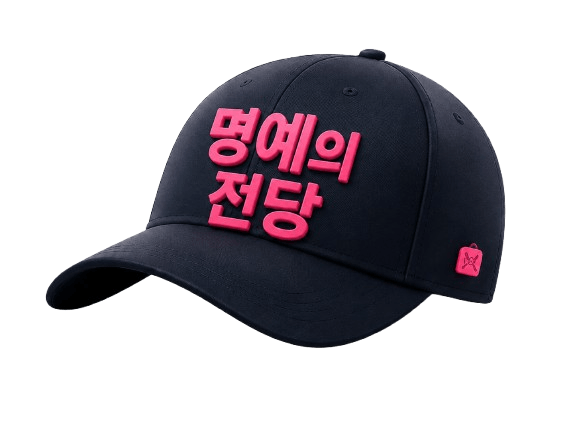
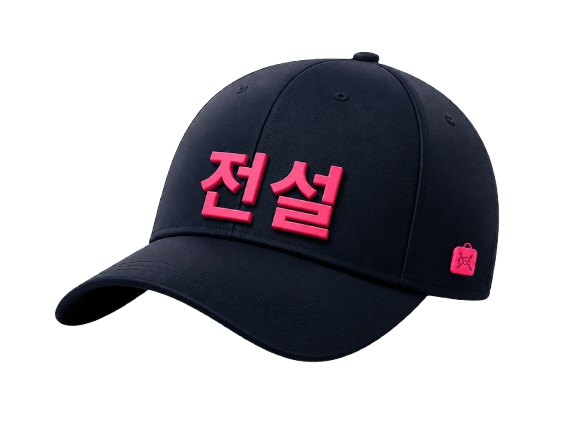
feat(predict,tier): AI 결과 자동 공개 + 결과창 승급 모달 + 등급명 보정
- AI 승리팀 예측: 오늘 모든 경기 종료 시 reveal 페이지 방문 없이 자동으로 적중/실패 노출
- ResultScreen: 매치 종료 직후 본인 누적 승수 조회 → TierUpHost 마운트로 즉시 승급 모달
- 등급명 변경: 5승 후보→유망주, 10승 백업→후보, 1500승 명예의 전당→전설
- 모자 이미지: 유망주/후보(기존 cap-2 이동)/전설로 교체

diff --git a/components/domain/stadium/ResultScreen.tsx b/components/domain/stadium/ResultScreen.tsx
@@ -18,6 +18,8 @@ import { SIM_ENGINE_VERSION } from "@/lib/sim/version";
 import { useAppState } from "@/lib/state/AppState";
 import { createSupabaseBrowserClient } from "@/lib/supabase/client";
 import { createRecord, type BpRecordSource } from "@/lib/supabase/query-parts/bpRecords";
+import { getAccountStats } from "@/lib/supabase/query-parts/bpAccountStats";
+import { TierUpHost } from "@/components/common/TierUpHost";
 
 export function ResultScreen() {
   const router = useRouter();
@@ -29,6 +31,8 @@ export function ResultScreen() {
   const [savedId, setSavedId] = useState<string | null>(null);
   // 동기 ref 가드 — useEffect가 두 번 실행돼도 INSERT 1회만 시도하도록 차단.
   const saveAttemptedRef = useRef(false);
+  // 매치 종료 직후 승급 모달 트리거용 — 본인 누적 승수.
+  const [accountWins, setAccountWins] = useState<number>(0);
 
   useEffect(() => {
     const s = loadMatchSession();
@@ -39,6 +43,24 @@ export function ResultScreen() {
     setSession(s);
     setHydrated(true);
   }, [router]);
+
+  // 마운트 + 저장 완료 후 본인 누적 승수 조회 → 승급 모달 트리거.
+  // PlayScreen이 GAME_END 시점에 이미 저장했으면 mount 시점에 바로 최신값 잡힘.
+  // ResultScreen이 직접 저장하는 케이스(fallback)는 savedId 변화 후 다시 조회.
+  useEffect(() => {
+    if (!hydrated) return;
+    (async () => {
+      try {
+        const client = createSupabaseBrowserClient();
+        const { data: { user } } = await client.auth.getUser();
+        if (!user || user.is_anonymous) return;
+        const stats = await getAccountStats(client, user.id);
+        setAccountWins(stats.wins);
+      } catch {
+        // ignore — 단순 부가 기능
+      }
+    })();
+  }, [hydrated, savedId]);
 
   const mvpPlayer = useMemo(() => {
     if (!session?.result || !session.input) return null;
@@ -246,6 +268,8 @@ export function ResultScreen() {
 
   return (
     <AppShell activeTab="stadium" title="결과" backHref="/stadium/lobby" theme="light" wide>
+      {/* 승급 감지 + 모달 — 매치 결과 직후 즉시 알림. */}
+      <TierUpHost wins={accountWins} />
       <section className="stadium-result">
         <div className="stadium-result-banner">
           <Trophy size={24} />

diff --git a/components/domain/AiWinnerListScreen.tsx b/components/domain/AiWinnerListScreen.tsx
@@ -326,7 +326,18 @@ export function AiWinnerListScreen({
                 <p className="ai-winner-empty-sub">다음 일정은 곧 업데이트됩니다</p>
               ) : null}
             </div>
-          ) : (
+          ) : (() => {
+            // 오늘 경기가 모두 종료되면 미스터리 연출 끄고 자동으로 적중/실패 노출.
+            // 사용자가 reveal 페이지 일일이 안 들어가도 결과가 한눈에 보이도록.
+            const allTodayFinished =
+              isToday &&
+              games.every(
+                (g) =>
+                  g.status === "finished" ||
+                  g.status === "canceled" ||
+                  (g.homeScore !== null && g.awayScore !== null)
+              );
+            return (
             <ul className="ai-winner-game-list">
               {games.map((g) => {
                 const home = getTeam(g.homeTeamId);
@@ -348,7 +359,7 @@ export function AiWinnerListScreen({
                 // ⚠ 미스터리 연출은 "오늘 첫 reveal"에만 의미 있음. 과거 날짜 경기는
                 //    적중 결과 확인이 목적이므로 무조건 펼친 상태로 노출.
                 const hasSeenReveal = seenIds.has(g.id);
-                const effectiveSeen = hasSeenReveal || !isToday;
+                const effectiveSeen = hasSeenReveal || !isToday || allTodayFinished;
 
                 // 카드 상태:
                 //   1) 09시 전 + 예측 없음 → 잠금 카운트다운
@@ -525,7 +536,8 @@ export function AiWinnerListScreen({
                 );
               })}
             </ul>
-          )}
+            );
+          })()}
         </section>
       </section>
     </AppShell>

diff --git a/lib/tiers/accountTier.ts b/lib/tiers/accountTier.ts
@@ -27,15 +27,15 @@ export type AccountTier = {
 
 const TIERS = [
   { wins: 1, name: "신인", file: "1w.png" },
-  { wins: 5, name: "후보", file: "5w.png" },
-  { wins: 10, name: "백업", file: "10w.png" },
+  { wins: 5, name: "유망주", file: "5w.png" },
+  { wins: 10, name: "후보", file: "10w.png" },
   { wins: 50, name: "주전", file: "50w.png" },
   { wins: 100, name: "베테랑", file: "100w.png" },
   { wins: 300, name: "4번타자", file: "300w.png" },
   { wins: 500, name: "올스타", file: "500w.png" },
   { wins: 700, name: "골든글러브", file: "700w.png" },
   { wins: 1000, name: "MVP", file: "1000w.png" },
-  { wins: 1500, name: "명예의 전당", file: "1500w.png" },
+  { wins: 1500, name: "전설", file: "1500w.png" },
   { wins: 2000, name: "영구결번", file: "2000w.png" }
 ] as const;
 
